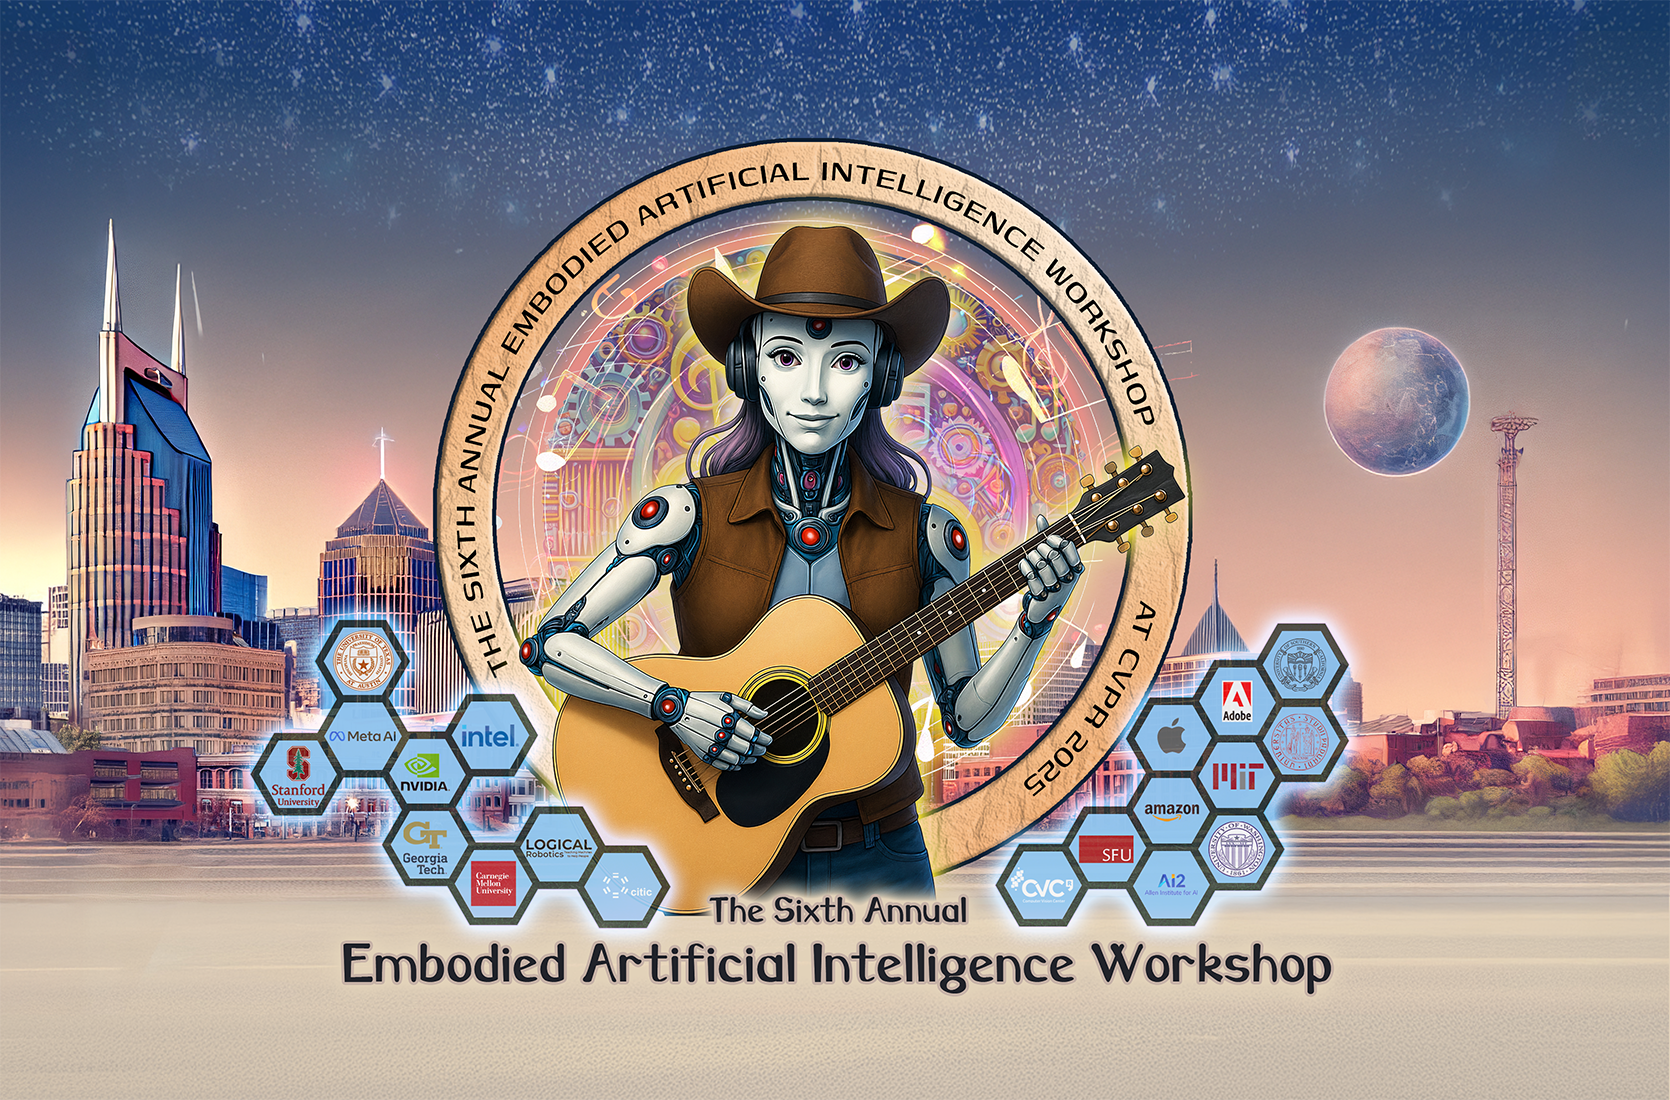
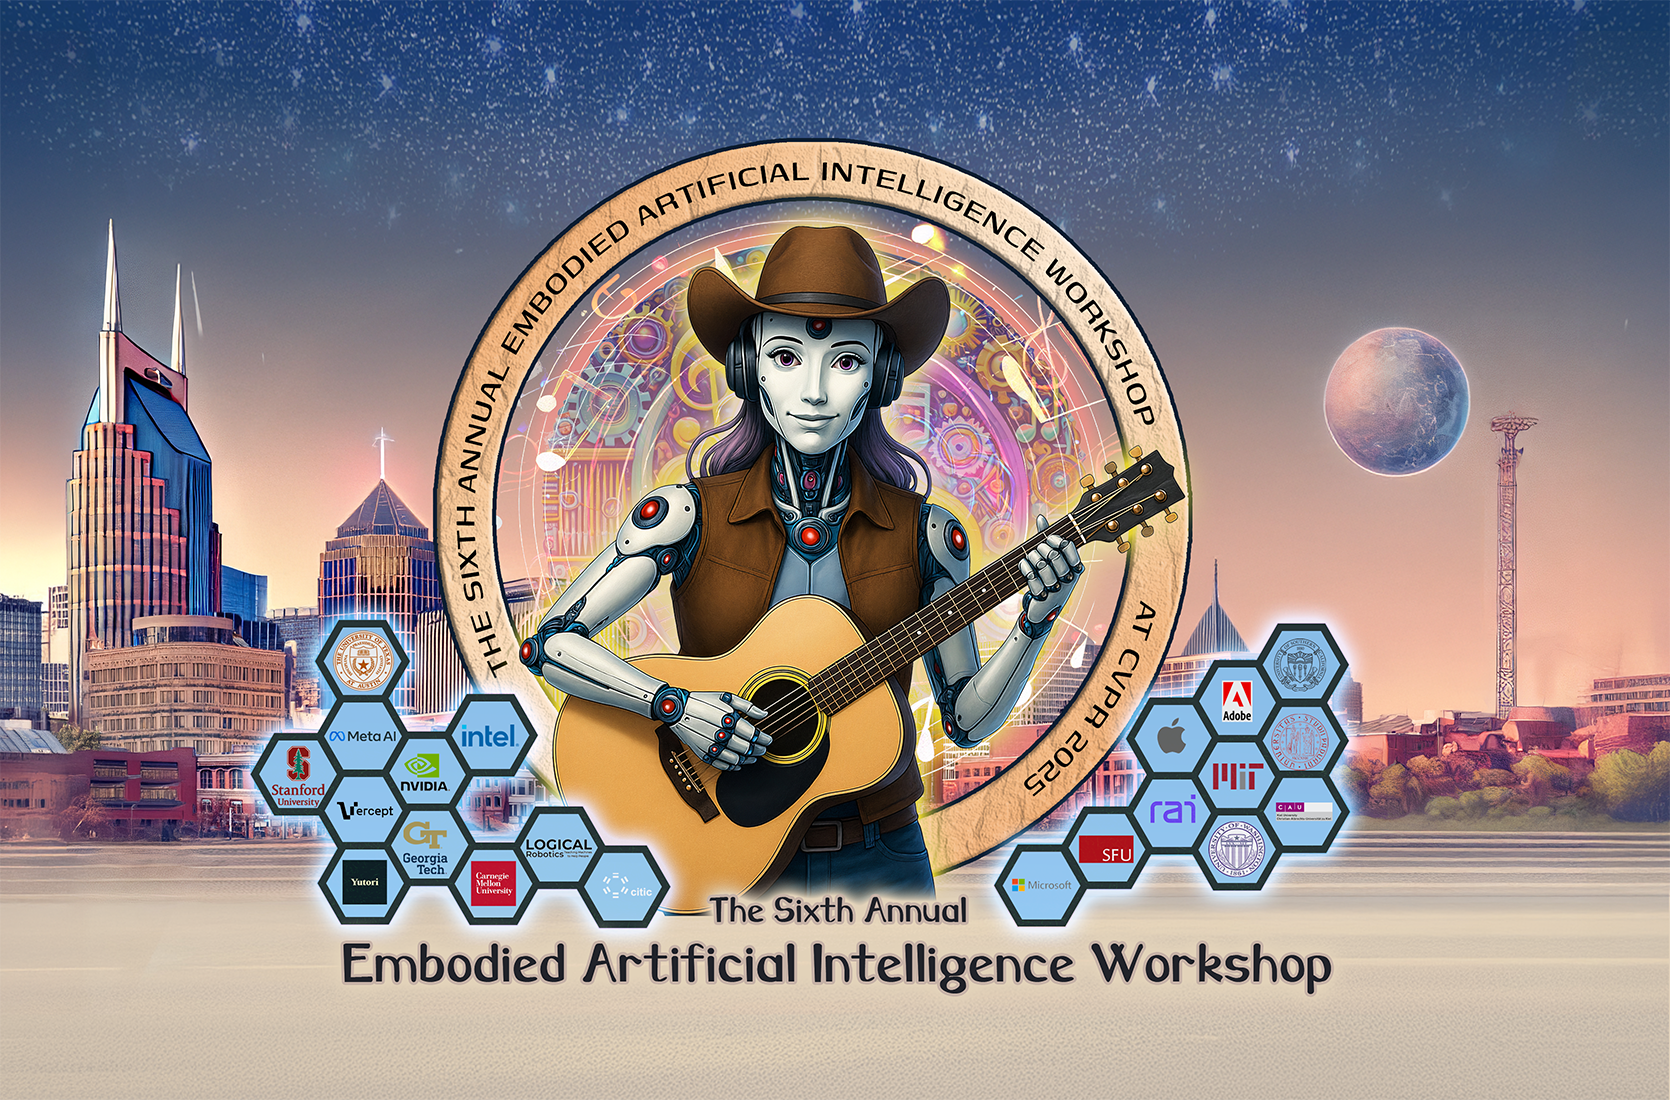
Add missing sponsors / participating orgs.

diff --git a/src/pages/cvpr2025.tsx b/src/pages/cvpr2025.tsx
@@ -1145,18 +1145,42 @@ export default function Home({ data }) {
         <p>The Embodied AI 2025 Workshop is sponsored by the following organizations:</p>
         <p>
           <center>
+            <table>
+              <tr>
+                <td>
+                <center>
+ 
                 <a href="https://logicalrobotics.com/">
               <img src="/images/sponsors/logical-robotics.png" height="150" alt="Logical Robotics"/>
             </a>
-
+               </center>
+ 
+                </td>
+                <td>
+                                    <center>
+ 
                 <a href="https://microsoft.com/">
               <img src="/images/sponsors/microsoft-logo.png" height="300" alt="Microsoft"/>
             </a>
+                   </center>
+                  
+                </td>
+              </tr>
+              <tr>
+                <td>
+                  <center>
+             <a href="https://nvidia.com/">
+              <img src="/images/sponsors/nvidia.svg" height="150" alt="NVIDIA"/>
+            </a>
+                  </center>
+ 
+                </td>
+                <td>
+                  <center>
                 <table>
               <tr>
                 <td>
                   <center>
-
                 <a href="https://www.projectaria.com/">
               <img src="/images/sponsors/project_aria.png" height="150" alt="Project Aria"/>
               <br></br>
@@ -1166,6 +1190,14 @@ export default function Home({ data }) {
                 </td>
               </tr>
             </table>
+                  </center>
+                  
+                </td>
+              </tr>
+            </table>
+
+
+            
           </center>
         </p>
         </Section>
